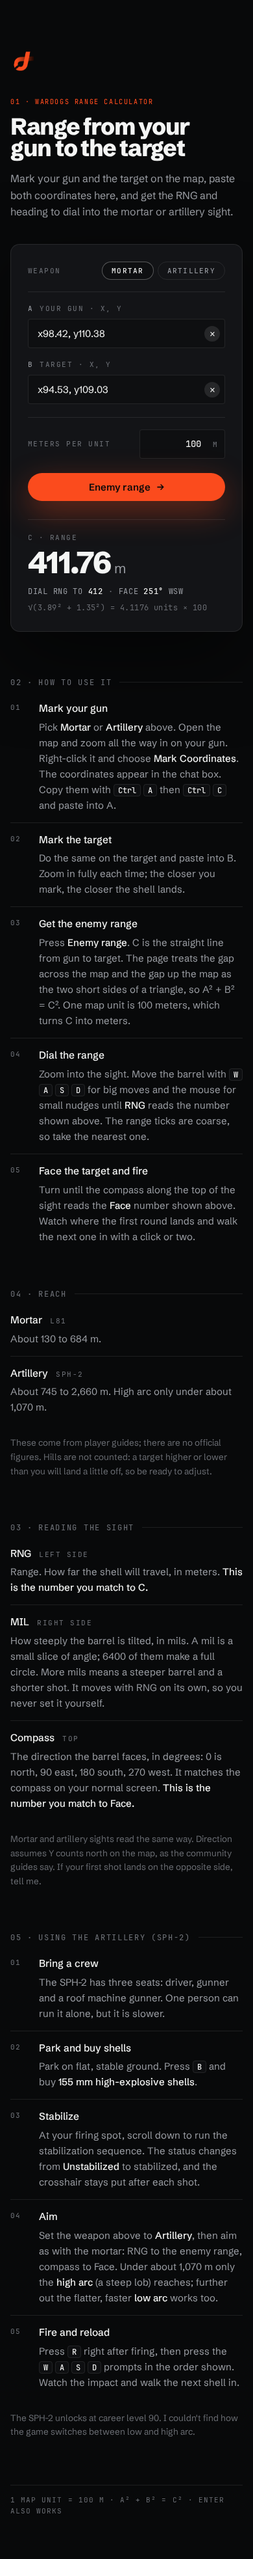
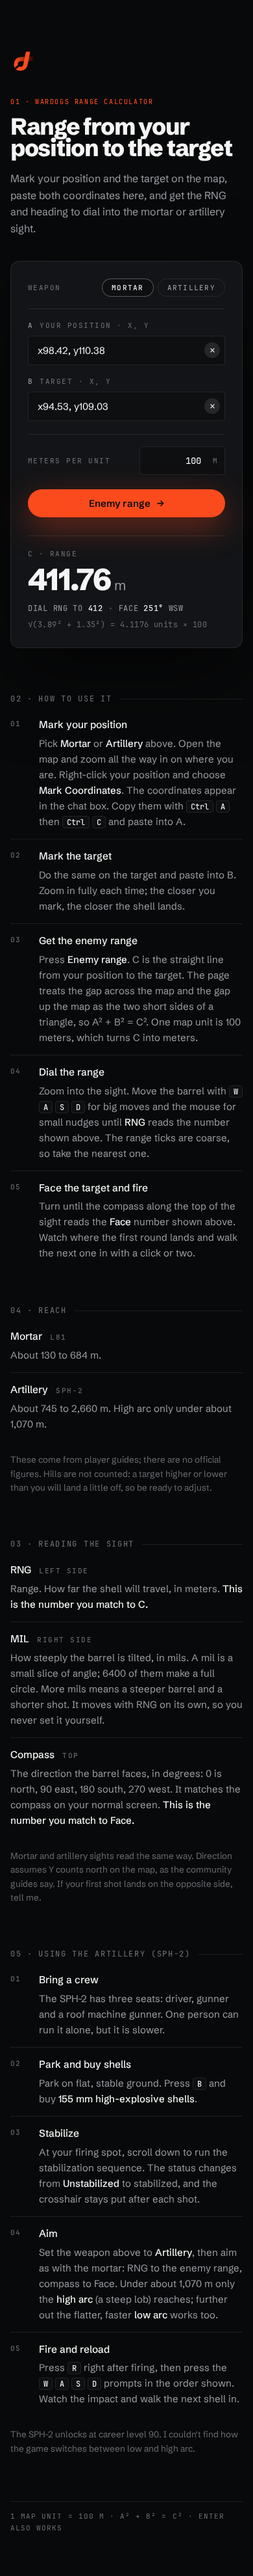
Say 'your position' instead of 'your gun'
Claude-Session: https://claude.ai/code/session_01EgT5FX5KAE4dFoWsGCwVm8

diff --git a/index.html b/index.html
@@ -123,8 +123,8 @@ footer { margin-top: 56px; padding-top: 14px; border-top: 1px solid var(--jd-lin
   <div class="head">
[1 lines of base64/hex data omitted]
   <p class="eyebrow in">01 · Wardogs range calculator</p>
-  <h1 class="in">Range from your gun to the target</h1>
-  <p class="lede in">Mark your gun and the target on the map, paste both coordinates here, and get the RNG and heading to dial into the mortar or artillery sight.</p>
+  <h1 class="in">Range from your position to the target</h1>
+  <p class="lede in">Mark your position and the target on the map, paste both coordinates here, and get the RNG and heading to dial into the mortar or artillery sight.</p>
 
   <div class="card in">
     <div class="weapon">
@@ -135,8 +135,8 @@ footer { margin-top: 56px; padding-top: 14px; border-top: 1px solid var(--jd-lin
       </div>
     </div>
     <div class="field">
-      <label class="lbl" for="a"><span class="n">A</span> Your gun · x, y</label>
-      <div class="wrap"><input id="a" value="x98.42, y110.38" placeholder="x98.42, y110.38" autocomplete="off" spellcheck="false"><button class="x" type="button" aria-label="Clear your gun position">×</button></div>
+      <label class="lbl" for="a"><span class="n">A</span> Your position · x, y</label>
+      <div class="wrap"><input id="a" value="x98.42, y110.38" placeholder="x98.42, y110.38" autocomplete="off" spellcheck="false"><button class="x" type="button" aria-label="Clear your position">×</button></div>
     </div>
     <div class="field">
       <label class="lbl" for="b"><span class="n">B</span> Target · x, y</label>
@@ -157,9 +157,9 @@ footer { margin-top: 56px; padding-top: 14px; border-top: 1px solid var(--jd-lin
   <section class="guide in">
     <h2>02 · How to use it</h2>
     <ol class="steps">
-      <li><span class="num">01</span><div><h3>Mark your gun</h3><p>Pick <strong>Mortar</strong> or <strong>Artillery</strong> above. Open the map and zoom all the way in on your gun. Right-click it and choose <strong>Mark Coordinates</strong>. The coordinates appear in the chat box. Copy them with <kbd>Ctrl</kbd> <kbd>A</kbd> then <kbd>Ctrl</kbd> <kbd>C</kbd> and paste into A.</p></div></li>
+      <li><span class="num">01</span><div><h3>Mark your position</h3><p>Pick <strong>Mortar</strong> or <strong>Artillery</strong> above. Open the map and zoom all the way in on where you are. Right-click your position and choose <strong>Mark Coordinates</strong>. The coordinates appear in the chat box. Copy them with <kbd>Ctrl</kbd> <kbd>A</kbd> then <kbd>Ctrl</kbd> <kbd>C</kbd> and paste into A.</p></div></li>
       <li><span class="num">02</span><div><h3>Mark the target</h3><p>Do the same on the target and paste into B. Zoom in fully each time; the closer you mark, the closer the shell lands.</p></div></li>
-      <li><span class="num">03</span><div><h3>Get the enemy range</h3><p>Press <strong>Enemy range</strong>. C is the straight line from gun to target. The page treats the gap across the map and the gap up the map as the two short sides of a triangle, so A² + B² = C². One map unit is 100 meters, which turns C into meters.</p></div></li>
+      <li><span class="num">03</span><div><h3>Get the enemy range</h3><p>Press <strong>Enemy range</strong>. C is the straight line from your position to the target. The page treats the gap across the map and the gap up the map as the two short sides of a triangle, so A² + B² = C². One map unit is 100 meters, which turns C into meters.</p></div></li>
       <li><span class="num">04</span><div><h3>Dial the range</h3><p>Zoom into the sight. Move the barrel with <kbd>W</kbd> <kbd>A</kbd> <kbd>S</kbd> <kbd>D</kbd> for big moves and the mouse for small nudges until <strong>RNG</strong> reads the number shown above. The range ticks are coarse, so take the nearest one.</p></div></li>
       <li><span class="num">05</span><div><h3>Face the target and fire</h3><p>Turn until the compass along the top of the sight reads the <strong>Face</strong> number shown above. Watch where the first round lands and walk the next one in with a click or two.</p></div></li>
     </ol>
@@ -224,7 +224,7 @@ function calculate(textA, textB, scaleText, weapon = "mortar") {
   if (String(scaleText).trim() === "" || !(scale > 0)) {
     return { error: "Meters per unit needs a number above 0, like 100", field: "scale" };
   }
-  const east = b.x - a.x;   // + means the target is east of the gun
+  const east = b.x - a.x;   // + means the target is east of your position
   const north = b.y - a.y;  // + means north (Y counts north on the Wardogs map)
   const dx = Math.abs(east);
   const dy = Math.abs(north);

diff --git a/AGENT_LOG.md b/AGENT_LOG.md
@@ -43,3 +43,7 @@ Compare it with DEVLOG.md: where the two logs disagree is where you learn the mo
 ## 2026-10-05: Aiming feedback
 - Did: No page change. User clarified aiming: put the target on the vertical crosshair line, and above or below center is fine. User chose to keep step order and test the compass Face number tomorrow; the visual-check rewrite is parked in BACKLOG.md.
 - Unsure about: Whether Y counts north (drives the Face number). Waiting on the user's in-game test.
+
+## 2026-10-05: "Your gun" → "Your position"
+- Did: Replaced every "gun" on the page with "your position" (title, intro, A label, step 01, step 03). Crew wording ("gunner") left as is.
+- Decided and why: The user had asked for this in the previous message and I misread it as a step-order request. Owned the mistake and fixed it.
